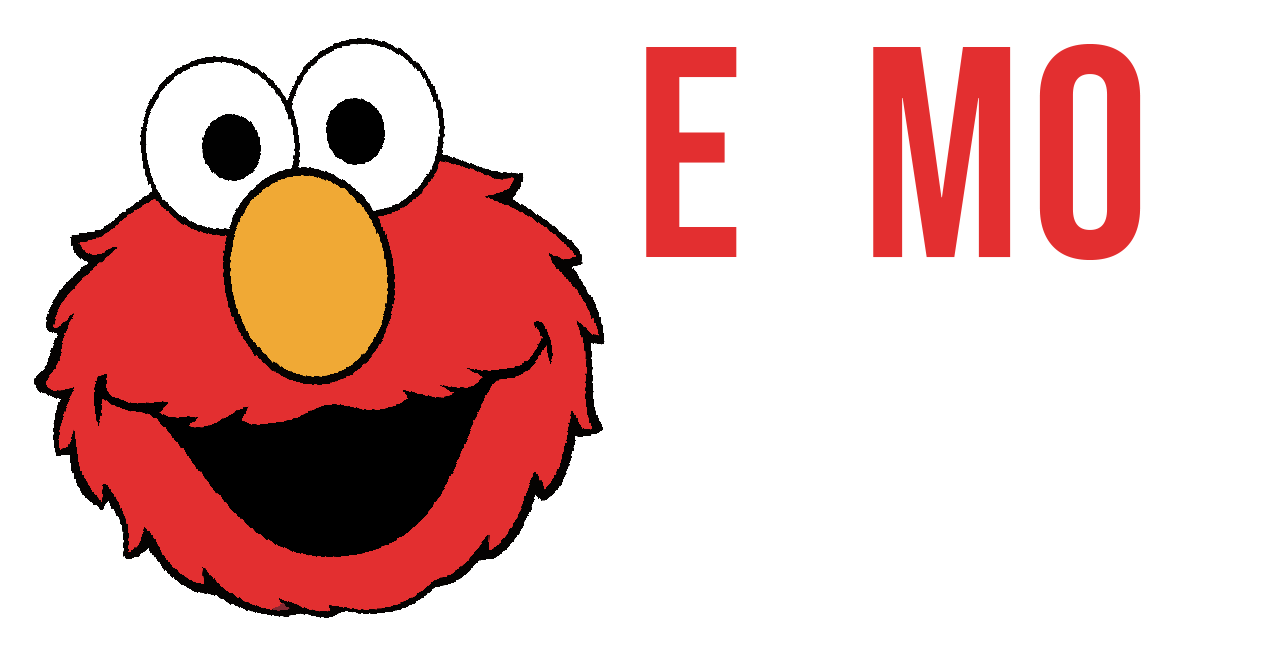
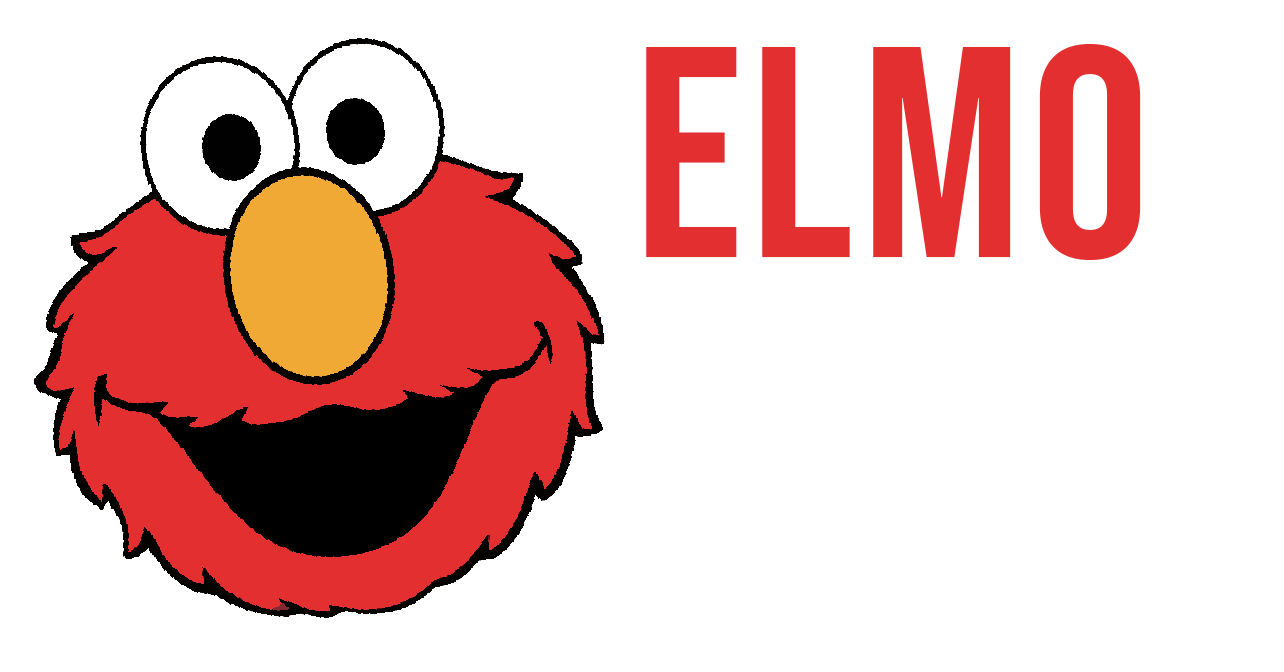
header acabado

Changed region(s): [[0.5919, 0.0625, 0.6854, 0.4062]]

diff --git a/css/estilosIndex.css b/css/estilosIndex.css
@@ -1,6 +1,14 @@
+/*color palette:
+red: #e32f30
+orange: #f0a935
+gray: #6c6c6c
+ */
+
+
 body {
     font-family: 'Hammersmith One', sans-serif;
-    background-image: url("/imgs/genshin-impact-recuerdos-chongyun-final-no-hay-mal-que-por-bien-no-venga.jpg");
+    background-image: url("/imgs/ZBWS2SSCWMI6ZFAEKCRIVCFZZU.jpg");
+    background-size: cover;
 }
 
     /* HEADER */
@@ -19,17 +27,19 @@ header{
     transition: 0.5s;
 }
 
-.logo{
+.logo {
     height: 60%;
+    transition: 0.5s;
 }
+
 
 .header-item{
     margin: 0 1rem;
-    font-weight: 600;
+    font-weight: 400;
     cursor: pointer;
     transition: 0.5s;
-    color: #571a1a;
-    text-decoration: none;
+    color: white;
+    letter-spacing: 1px;
 }
 
 .menu{
@@ -42,27 +52,22 @@ header{
 .login{
     padding: 10px 24px;
     border-radius: 30px;
-    background-color: grey;
-    font-weight: 600;
+    background-color: #f0a935;
+    font-weight: 400;
     cursor: pointer;
     transition: 0.5s;
-    text-decoration: none;
 }
 
 .login:hover{
-    text-decoration: none;
-    color: aquamarine;
-    background-color: brown;
+    color: white;
+    background-color: #e32f30;
 }
 
 .header-item:hover{
-    text-decoration: none;
-    color: cornflowerblue;
-}
-
-.prueba{
+    color: #f0a935;
 }
 
 a{
     text-decoration: none;
+    color: inherit;
 }

diff --git a/Cartelera.html b/Cartelera.html
@@ -11,7 +11,7 @@
 </head>
 <body>
     <header id="header">
-        <img src="imgs/ELMOCINES.png" alt="logo" class="logo"/>
+        <img src="imgs/ELMOCINES.png" alt="logo" class="logo" onmouseover="hover(this)" onmouseout="unhover(this)"/>
         <ul class="menu">
             <li class="header-item"><a href="Index.html">inicio</a></li>
             <li class="header-item"><a href="Cartelera.html">cartelera</a></li>
@@ -19,5 +19,6 @@
             <li class="login"><a href="Login.html">login</a></li>
         </ul>
     </header>
+    <script type="text/javascript" src="js/index.js"></script>
 </body>
 </html>

diff --git a/Estrenos.html b/Estrenos.html
@@ -11,7 +11,7 @@
 </head>
 <body>
     <header id="header">
-        <img src="imgs/ELMOCINES.png" alt="logo" class="logo"/>
+        <img src="imgs/ELMOCINES.png" alt="logo" class="logo" onmouseover="hover(this)" onmouseout="unhover(this)"/>
         <ul class="menu">
             <li class="header-item"><a href="Index.html">inicio</a></li>
             <li class="header-item"><a href="Cartelera.html">cartelera</a></li>
@@ -19,5 +19,6 @@
             <li class="login"><a href="Login.html">login</a></li>
         </ul>
     </header>
+    <script type="text/javascript" src="js/index.js"></script>
 </body>
 </html>

diff --git a/js/index.js b/js/index.js
@@ -1,4 +1,5 @@
 let header = document.getElementById("header");
+let logo = document.getElementById("logo");
 
 window.addEventListener('scroll', ()=>{
     let scroll = window.scrollY;
@@ -7,3 +8,16 @@ window.addEventListener('scroll', ()=>{
     else
         header.style.background = 'transparent'
 })
+
+function hover(logo) {
+    logo.style.transitionDuration = "0.5s";
+    logo.setAttribute('src', "/imgs/EMOCINES.png");
+
+}
+
+function unhover(logo) {
+    logo.style.transitionDuration = "0.5s";
+    logo.setAttribute('src', "/imgs/ELMOCINES.png");
+
+}
+

diff --git a/Index.html b/Index.html
@@ -11,7 +11,7 @@
 </head>
 <body>
 	<header id="header">
-		<img src="imgs/ELMOCINES.png" alt="logo" class="logo"/>
+		<img src="imgs/ELMOCINES.png" alt="logo" class="logo" onmouseover="hover(this)" onmouseout="unhover(this)"/>
 		        <ul class="menu">
 		            <li class="header-item"><a href="Index.html">inicio</a></li>
 		            <li class="header-item"><a href="Cartelera.html">cartelera</a></li>
